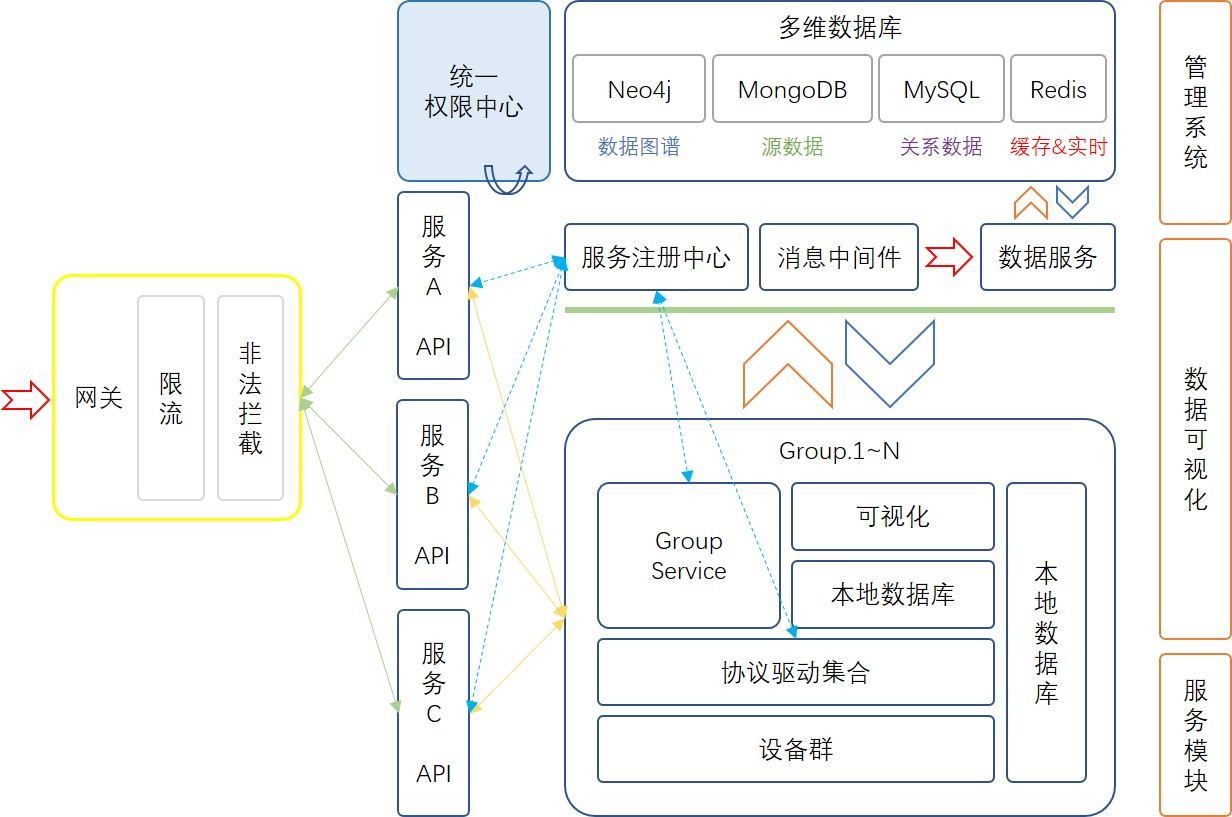
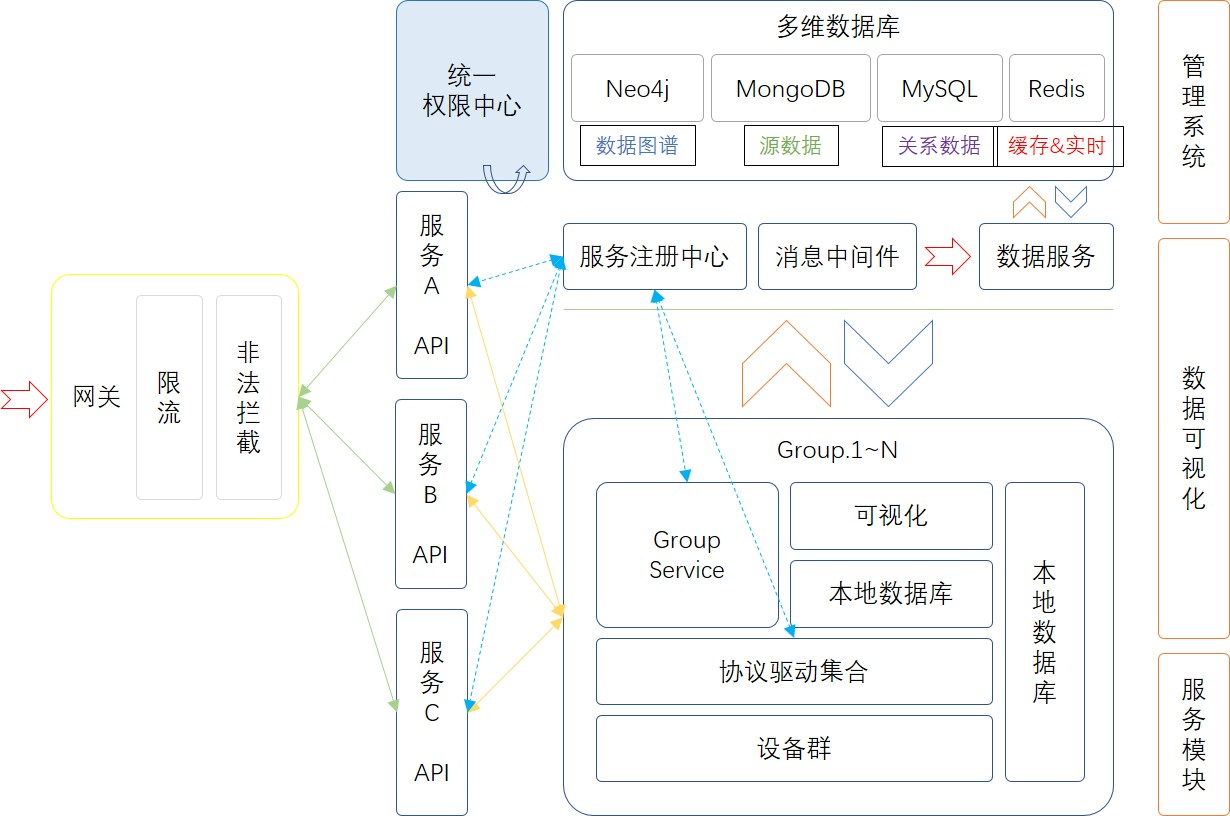
refactor(sdk): simplify DriverServiceImpl and SdkServiceImpl initialization logic

diff --git a/dc3-common/dc3-sdk/src/main/java/com/pnoker/common/sdk/service/impl/SdkServiceImpl.java b/dc3-common/dc3-sdk/src/main/java/com/pnoker/common/sdk/service/impl/SdkServiceImpl.java
@@ -129,7 +129,7 @@ public class SdkServiceImpl implements SdkService {
             log.error("driver name || driver service name || driver host is invalid");
             return false;
         }
-        return registerDriver() && registerDriverConnectInfo() && registerDriverProfileInfo();
+        return registerDriver() && registerDriverAttribute() && registerPointAttribute();
     }
 
     /**
@@ -161,11 +161,11 @@ public class SdkServiceImpl implements SdkService {
     }
 
     /**
-     * 注册驱动 connect 配置信息
+     * 注册驱动 driver 配置属性
      *
      * @return
      */
-    public boolean registerDriverConnectInfo() {
+    public boolean registerDriverAttribute() {
         Map<String, DriverAttribute> infoMap = new HashMap<>(16);
         DriverAttributeDto connectInfoDto = new DriverAttributeDto();
         connectInfoDto.setDriverId(deviceDriver.getDriverId());
@@ -177,34 +177,34 @@ public class SdkServiceImpl implements SdkService {
             }
         }
 
-        Map<String, DriverAttribute> connectInfoMap = new HashMap<>(16);
+        Map<String, DriverAttribute> driverAttributeMap = new HashMap<>(16);
         for (DriverAttribute info : driverProperty.getConnect()) {
-            connectInfoMap.put(info.getName(), info);
+            driverAttributeMap.put(info.getName(), info);
         }
 
-        for (String name : connectInfoMap.keySet()) {
-            DriverAttribute info = connectInfoMap.get(name).setDriverId(deviceDriver.getDriverId());
+        for (String name : driverAttributeMap.keySet()) {
+            DriverAttribute info = driverAttributeMap.get(name).setDriverId(deviceDriver.getDriverId());
             if (infoMap.containsKey(name)) {
                 info.setId(infoMap.get(name).getId());
                 R<DriverAttribute> r = driverAttributeClient.update(info);
                 if (!r.isOk()) {
-                    log.error("the connect info ({}) update failed", name);
+                    log.error("the driver attribute ({}) update failed", name);
                     return false;
                 }
             } else {
                 R<DriverAttribute> r = driverAttributeClient.add(info);
                 if (!r.isOk()) {
-                    log.error("the connect info ({}) create failed", name);
+                    log.error("the driver attribute ({}) create failed", name);
                     return false;
                 }
             }
         }
 
         for (String name : infoMap.keySet()) {
-            if (!connectInfoMap.containsKey(name)) {
+            if (!driverAttributeMap.containsKey(name)) {
                 R<Boolean> r = driverAttributeClient.delete(infoMap.get(name).getId());
                 if (!r.isOk()) {
-                    log.error("the connect info ({}) delete failed", name);
+                    log.error("the driver attribute ({}) delete failed", name);
                     return false;
                 }
             }
@@ -213,11 +213,11 @@ public class SdkServiceImpl implements SdkService {
     }
 
     /**
-     * 注册驱动 profile 配置信息
+     * 注册驱动 point 配置属性
      *
      * @return
      */
-    public boolean registerDriverProfileInfo() {
+    public boolean registerPointAttribute() {
         Map<String, PointAttribute> infoMap = new HashMap<>(16);
         PointAttributeDto profileInfoDto = new PointAttributeDto();
         profileInfoDto.setDriverId(deviceDriver.getDriverId());
@@ -229,34 +229,34 @@ public class SdkServiceImpl implements SdkService {
             }
         }
 
-        Map<String, PointAttribute> profileInfoMap = new HashMap<>(16);
+        Map<String, PointAttribute> pointAttributeMap = new HashMap<>(16);
         for (PointAttribute info : driverProperty.getProfile()) {
-            profileInfoMap.put(info.getName(), info);
+            pointAttributeMap.put(info.getName(), info);
         }
 
-        for (String name : profileInfoMap.keySet()) {
-            PointAttribute info = profileInfoMap.get(name).setDriverId(deviceDriver.getDriverId());
+        for (String name : pointAttributeMap.keySet()) {
+            PointAttribute info = pointAttributeMap.get(name).setDriverId(deviceDriver.getDriverId());
             if (infoMap.containsKey(name)) {
                 info.setId(infoMap.get(name).getId());
                 R<PointAttribute> r = pointAttributeClient.update(info);
                 if (!r.isOk()) {
-                    log.error("the profile info ({}) update failed", name);
+                    log.error("the point attribute ({}) update failed", name);
                     return false;
                 }
             } else {
                 R<PointAttribute> r = pointAttributeClient.add(info);
                 if (!r.isOk()) {
-                    log.error("the profile info ({}) create failed", name);
+                    log.error("the point attribute ({}) create failed", name);
                     return false;
                 }
             }
         }
 
         for (String name : infoMap.keySet()) {
-            if (!profileInfoMap.containsKey(name)) {
+            if (!pointAttributeMap.containsKey(name)) {
                 R<Boolean> r = pointAttributeClient.delete(infoMap.get(name).getId());
                 if (!r.isOk()) {
-                    log.error("the profile info ({}) delete failed", name);
+                    log.error("the point attribute ({}) delete failed", name);
                     return false;
                 }
             }
@@ -269,12 +269,10 @@ public class SdkServiceImpl implements SdkService {
      */
     public void loadData() {
         deviceDriver.setProfileMap(getProfileMap(deviceDriver.getDriverId()));
-        deviceDriver.setDriverAttributeMap(getDriverAttributeMap(deviceDriver.getDriverId()));
-        deviceDriver.setDriverInfoMap(getDriverInfoMap(deviceDriver.getProfileMap()));
+        deviceDriver.setDriverInfoMap(getDriverInfoMap(deviceDriver.getProfileMap(), getDriverAttributeMap(deviceDriver.getDriverId())));
         deviceDriver.setDeviceMap(getDeviceMap(deviceDriver.getProfileMap()));
         deviceDriver.setPointMap(getPointMap(deviceDriver.getProfileMap()));
-        deviceDriver.setPointAttributeMap(getPointAttributeMap(deviceDriver.getDriverId()));
-        deviceDriver.setPointInfoMap(getPointInfoMap(deviceDriver.getDeviceMap()));
+        deviceDriver.setPointInfoMap(getPointInfoMap(deviceDriver.getDeviceMap(), getPointAttributeMap(deviceDriver.getDriverId())));
     }
 
     /**
@@ -391,7 +389,7 @@ public class SdkServiceImpl implements SdkService {
      * @param profileMap
      * @return
      */
-    public Map<Long, Map<String, AttributeInfo>> getDriverInfoMap(Map<Long, Profile> profileMap) {
+    public Map<Long, Map<String, AttributeInfo>> getDriverInfoMap(Map<Long, Profile> profileMap, Map<Long, DriverAttribute> driverAttributeMap) {
         Map<Long, Map<String, AttributeInfo>> driverInfoMap = new HashMap<>(16);
         for (Long profileId : profileMap.keySet()) {
             DriverInfoDto driverInfoDto = new DriverInfoDto();
@@ -402,7 +400,7 @@ public class SdkServiceImpl implements SdkService {
                 Map<String, AttributeInfo> infoMap = new HashMap<>(16);
                 List<DriverInfo> driverInfos = r.getData().getRecords();
                 for (DriverInfo driverInfo : driverInfos) {
-                    DriverAttribute attribute = deviceDriver.getDriverAttributeMap().get(driverInfo.getDriverAttributeId());
+                    DriverAttribute attribute = driverAttributeMap.get(driverInfo.getDriverAttributeId());
                     infoMap.put(attribute.getName(), new AttributeInfo(driverInfo.getValue(), attribute.getType()));
                 }
                 driverInfoMap.put(profileId, infoMap);
@@ -413,11 +411,11 @@ public class SdkServiceImpl implements SdkService {
 
     /**
      * 获取位号信息
-     * deviveId(pointId(pointAttribute.name,(pointInfo.value,pointAttribute.type)))
+     * deviceId(pointId(pointAttribute.name,(pointInfo.value,pointAttribute.type)))
      *
      * @return
      */
-    public Map<Long, Map<Long, Map<String, AttributeInfo>>> getPointInfoMap(Map<Long, Device> deviceMap) {
+    public Map<Long, Map<Long, Map<String, AttributeInfo>>> getPointInfoMap(Map<Long, Device> deviceMap, Map<Long, PointAttribute> pointAttributeMap) {
         Map<Long, Map<Long, Map<String, AttributeInfo>>> pointInfoMap = new HashMap<>(16);
         for (Device device : deviceMap.values()) {
             Map<Long, Map<String, AttributeInfo>> tmp = new HashMap<>(16);
@@ -432,7 +430,7 @@ public class SdkServiceImpl implements SdkService {
                     Map<String, AttributeInfo> infoMap = new HashMap<>(16);
                     List<PointInfo> pointInfos = r.getData().getRecords();
                     for (PointInfo pointInfo : pointInfos) {
-                        PointAttribute attribute = deviceDriver.getPointAttributeMap().get(pointInfo.getPointAttributeId());
+                        PointAttribute attribute = pointAttributeMap.get(pointInfo.getPointAttributeId());
                         infoMap.put(attribute.getName(), new AttributeInfo(pointInfo.getValue(), attribute.getType()));
                     }
                     tmp.put(pointId, infoMap);

diff --git a/dc3-common/dc3-sdk/src/main/java/com/pnoker/common/sdk/service/impl/DriverServiceImpl.java b/dc3-common/dc3-sdk/src/main/java/com/pnoker/common/sdk/service/impl/DriverServiceImpl.java
@@ -1,13 +1,6 @@
 package com.pnoker.common.sdk.service.impl;
 
-import com.baomidou.mybatisplus.extension.plugins.pagination.Page;
-import com.pnoker.api.center.manager.feign.DriverInfoClient;
-import com.pnoker.api.center.manager.feign.PointInfoClient;
-import com.pnoker.common.bean.Pages;
-import com.pnoker.common.bean.R;
-import com.pnoker.common.dto.DriverInfoDto;
-import com.pnoker.common.dto.PointInfoDto;
-import com.pnoker.common.model.*;
+import com.pnoker.common.sdk.bean.AttributeInfo;
 import com.pnoker.common.sdk.init.DeviceDriver;
 import com.pnoker.common.sdk.service.CustomizersService;
 import com.pnoker.common.sdk.service.DriverService;
@@ -15,8 +8,6 @@ import lombok.extern.slf4j.Slf4j;
 import org.springframework.stereotype.Service;
 
 import javax.annotation.Resource;
-import java.util.HashMap;
-import java.util.List;
 import java.util.Map;
 
 /**
@@ -26,45 +17,14 @@ import java.util.Map;
 @Service
 public class DriverServiceImpl implements DriverService {
     @Resource
-    private PointInfoClient pointInfoClient;
-    @Resource
-    private DriverInfoClient driverInfoClient;
-    @Resource
     private DeviceDriver deviceDriver;
     @Resource
     private CustomizersService customizersService;
 
     @Override
     public void read(Long deviceId, Long pointId) {
-        Device device = deviceDriver.getDeviceMap().get(deviceId);
-        Profile profile = deviceDriver.getProfileMap().get(device.getProfileId());
-        Point point = deviceDriver.getPointMap().get(profile.getId()).get(pointId);
-
-        DriverInfoDto driverInfoDto = new DriverInfoDto();
-        driverInfoDto.setProfileId(profile.getId());
-        driverInfoDto.setPage(new Pages().setSize(-1L));
-        Map<String, String> dd = new HashMap<>(16);
-        R<Page<DriverInfo>> rd = driverInfoClient.list(driverInfoDto);
-        if (rd.isOk()) {
-            List<DriverInfo> driverInfos = rd.getData().getRecords();
-            for (DriverInfo driverInfo : driverInfos) {
-                dd.put(deviceDriver.getDriverAttributeMap().get(driverInfo.getDriverAttributeId()).getName(), driverInfo.getValue());
-            }
-        }
-
-        PointInfoDto pointInfoDto = new PointInfoDto();
-        pointInfoDto.setDeviceId(deviceId).setPointId(pointId);
-        pointInfoDto.setPage(new Pages().setSize(-1L));
-        Map<String, String> pp = new HashMap<>(16);
-        R<Page<PointInfo>> rp = pointInfoClient.list(pointInfoDto);
-        if (rp.isOk()) {
-            List<PointInfo> pointInfos = rp.getData().getRecords();
-            for (PointInfo pointInfo : pointInfos) {
-                pp.put(deviceDriver.getPointAttributeMap().get(pointInfo.getPointAttributeId()).getName(), pointInfo.getValue());
-            }
-        }
-
-
-        customizersService.read(dd, pp);
+        Map<String, AttributeInfo> driverInfoMap = deviceDriver.getDriverInfoMap().get(deviceDriver.getDeviceMap().get(deviceId).getProfileId());
+        Map<String, AttributeInfo> pointInfoMap = deviceDriver.getPointInfoMap().get(deviceId).get(pointId);
+        customizersService.read(driverInfoMap, pointInfoMap);
     }
 }

diff --git a/dc3-common/dc3-sdk/src/main/java/com/pnoker/common/sdk/init/DeviceDriver.java b/dc3-common/dc3-sdk/src/main/java/com/pnoker/common/sdk/init/DeviceDriver.java
@@ -31,26 +31,30 @@ public class DeviceDriver implements ApplicationListener<WebServerInitializedEve
     @Getter
     private long driverId;
 
-    @Setter
-    @Getter
-    private Map<Long, DriverAttribute> driverAttributeMap;
-
+    /**
+     * profileId(driverAttribute.name,(drverInfo.value,driverAttribute.type))
+     */
     @Setter
     @Getter
     private Map<Long, Map<String, AttributeInfo>> driverInfoMap;
 
-    @Setter
-    @Getter
-    private Map<Long, PointAttribute> pointAttributeMap;
-
+    /**
+     * deviceId(pointId(pointAttribute.name,(pointInfo.value,pointAttribute.type)))
+     */
     @Setter
     @Getter
     private Map<Long, Map<Long, Map<String, AttributeInfo>>> pointInfoMap;
 
+    /**
+     * profileID,profile
+     */
     @Setter
     @Getter
     private Map<Long, Profile> profileMap;
 
+    /**
+     * deviceId,device
+     */
     @Setter
     @Getter
     private Map<Long, Device> deviceMap;

diff --git a/dc3-common/dc3-sdk/src/main/java/com/pnoker/common/sdk/service/CustomizersService.java b/dc3-common/dc3-sdk/src/main/java/com/pnoker/common/sdk/service/CustomizersService.java
@@ -17,6 +17,7 @@
 package com.pnoker.common.sdk.service;
 
 import com.pnoker.common.model.Point;
+import com.pnoker.common.sdk.bean.AttributeInfo;
 
 import java.util.Map;
 
@@ -39,7 +40,7 @@ public interface CustomizersService {
     /**
      * 读操作
      */
-    void read(Map<String, String> driverInfo, Map<String, String> pointInfo);
+    void read(Map<String, AttributeInfo> driverInfo, Map<String, AttributeInfo> pointInfo);
 
     /**
      * 写操作

diff --git a/dc3-driver/dc3-driver-virtual/src/main/java/com/pnoker/driver/service/impl/CustomizersServiceImpl.java b/dc3-driver/dc3-driver-virtual/src/main/java/com/pnoker/driver/service/impl/CustomizersServiceImpl.java
@@ -1,5 +1,6 @@
 package com.pnoker.driver.service.impl;
 
+import com.pnoker.common.sdk.bean.AttributeInfo;
 import com.pnoker.common.sdk.service.CustomizersService;
 import lombok.extern.slf4j.Slf4j;
 import org.springframework.stereotype.Service;
@@ -24,7 +25,7 @@ public class CustomizersServiceImpl implements CustomizersService {
     }
 
     @Override
-    public void read(Map<String, String> driverInfo, Map<String, String> pointInfo) {
+    public void read(Map<String, AttributeInfo> driverInfo, Map<String, AttributeInfo> pointInfo) {
 
     }
 

diff --git a/README.md b/README.md
@@ -49,8 +49,6 @@
 * 安全:数据加密传输;
 * Docker:容器化。
 
-![iot-dc3-architecture](dc3/images/iot-dc3-architecture5.jpg)
-
 ### 2 DC3 IOT平台架构？
 
 DC3 平台是基于`Spring Cloud`架构开发的,是一系列松耦合、开源的微服务集合。